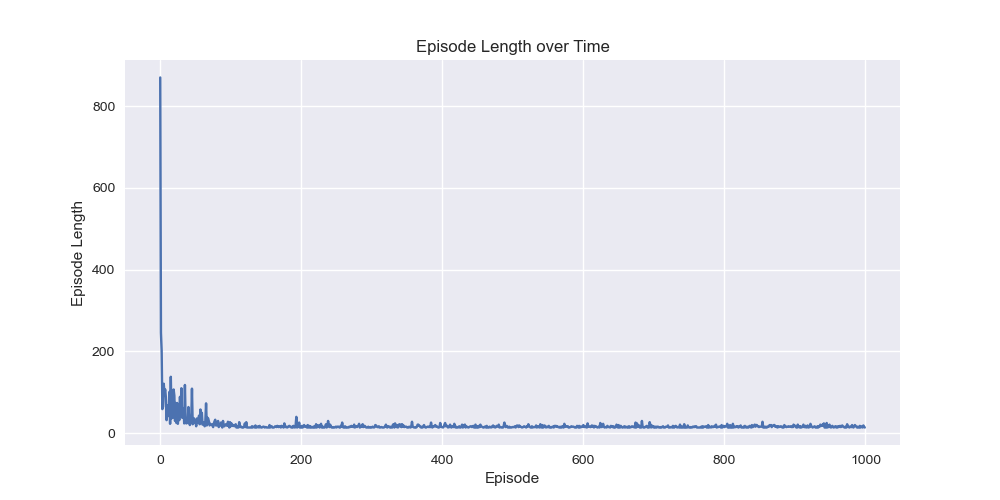
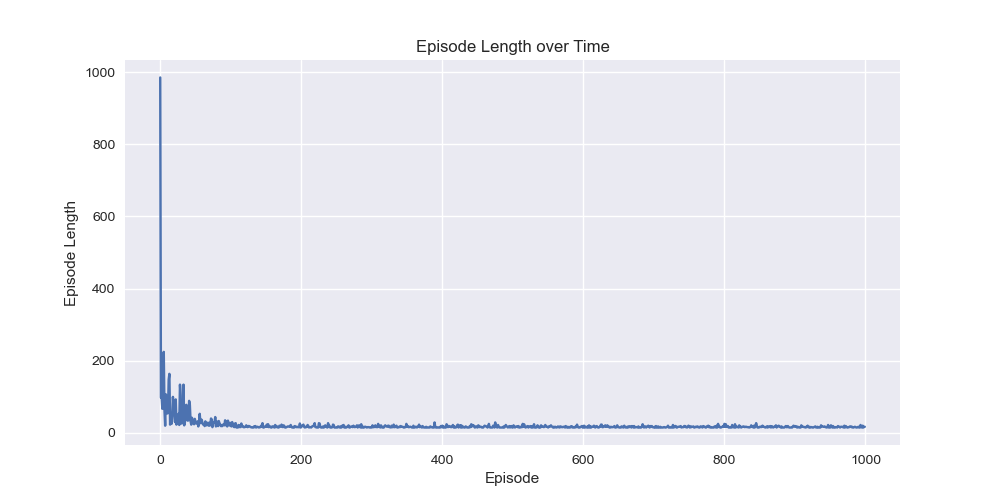
Rewrited as class. Added descriptions.

diff --git a/Q-Learning.py b/Q-Learning.py
@@ -4,6 +4,7 @@ import numpy as np
 from support import plotting
 from support.windy_gridworld import WindyGridworldEnv
 import matplotlib.style
+
 matplotlib.style.use("seaborn")
 
 """ Q-Learning is a basic form of Reinforcement Learning which uses Q-values (also called action values) to iteratively 
@@ -19,8 +20,8 @@ matplotlib.style.use("seaborn")
 3.  Temporal Difference or TD-Update:
         The Temporal Difference or TD-Update rule can be represented as follows :
         Q(S, A) <- Q(S, A) + alpha(R + gamma * Q(S', A') - Q(S, A)
-        
-        
+
+
 This update rule to estimate the value of Q is applied at every time step of the agents interaction with the 
 environment. The terms used are:
 
@@ -45,57 +46,61 @@ It goes as follows : ~With probability (1-epsilon) choose the action which has t
                 DOWN = 2
                 LEFT = 3"""
 
-env = WindyGridworldEnv()
-# env.seed(100)
-# print(env.render())
 
+class QLearning:
+    def __init__(self):
+        self.env = WindyGridworldEnv()
+        # self.env.render()
+        self.QFunction = defaultdict(lambda: np.zeros(self.env.action_space.n))
+        self.epsilon = 0.1
+        self.episodesAmount = 1000
+        self.stats = plotting.EpisodeStats(episode_lengths=np.zeros(self.episodesAmount),
+                                           episode_rewards=np.zeros(self.episodesAmount))
+        self.actionProbabilities = np.ones(self.env.action_space.n, dtype=float)
+        self.qLearning()
+        plotting.plot_episode_stats(self.stats)
 
-def createEpsilonGreedyPolicy(QFunction, epsilon, actionsAmount):
     # Creates an epsilon-greedy policy based on a given Q-function and epsilon
-    def policyFunction(state):
+    def createEpsilonGreedyPolicy(self):
         # state - represent current position in array (linear)
-        actionProbabilities = np.ones(actionsAmount, dtype=float) * epsilon / actionsAmount
-        # QFunction[state] - represents the next move direction probabilities for each direction
-        bestAction = np.argmax(QFunction[state])
-        # bestAction - direction to move,
-        actionProbabilities[bestAction] += (1.0 - epsilon)
-        return actionProbabilities
-    return policyFunction
+        def policyFunction(state):
+            # actionProbabilities - represents the next move direction probabilities for each direction
+            self.actionProbabilities = np.ones(self.env.action_space.n,
+                                               dtype=float) * self.epsilon / self.env.action_space.n
+            # QFunction[state] - represents the next move direction probabilities for each direction
+            bestAction = np.argmax(self.QFunction[state])
+            # bestAction - direction to move
+            self.actionProbabilities[bestAction] += (1.0 - self.epsilon)
+        return policyFunction
+
+    def qLearning(self, discountFactor=1.0, alpha=0.6):
+        policy = self.createEpsilonGreedyPolicy()
+
+        for episode in range(self.episodesAmount):
+            state = self.env.reset()
+            for i in itertools.count():
+                policy(state)
+                # action - random choice from actionProbabilities 1D array with probability p
+                action = np.random.choice(np.arange(len(self.actionProbabilities)), p=self.actionProbabilities)
+                # print(env.render())
+                # nextState - current position on the grid,
+                # reward - -1.0 perm,
+                # done - boolean, to show if agent reached destination (won),
+                # last(skipped) parameter is probability(1.0 by default)
+                nextState, reward, done, _ = self.env.step(action)
+
+                self.stats.episode_rewards[episode] += reward
+                self.stats.episode_lengths[episode] = i
+                bestNextAction = np.argmax(self.QFunction[nextState])
+                # temporalDifferenceTarget - reward(-1.0) + best action from the next state
+                temporalDifferenceTarget = reward + discountFactor * self.QFunction[nextState][bestNextAction]
+                # temporalDifferenceDelta - temporalDifferenceTarget - action from current state
+                temporalDifferenceDelta = temporalDifferenceTarget - self.QFunction[state][action]
+                self.QFunction[state][action] += alpha * temporalDifferenceDelta
+                if done:
+                    break
+                # print(env.render())
+                state = nextState
 
 
-def qLearning(environment, episodesAmount, discountFactor=1.0, alpha=0.6, epsilon=0.1):
-    QFunction = defaultdict(lambda: np.zeros(environment.action_space.n))
-    stats = plotting.EpisodeStats(episode_lengths=np.zeros(episodesAmount), episode_rewards=np.zeros(episodesAmount))
-    policy = createEpsilonGreedyPolicy(QFunction, epsilon, environment.action_space.n)
-
-    for episode in range(episodesAmount):
-        state = environment.reset()
-        for i in itertools.count():
-            actionProbabilities = policy(state)
-            print(actionProbabilities)
-    #         # actionProbabilities - represents the next move direction probabilities for each direction
-    #         action = np.random.choice(np.arange(len(actionProbabilities)), p=actionProbabilities)
-    #         # action - random choice from actionProbabilities 1D array
-    #         nextState, reward, done, _ = environment.step(action)
-    #         # print(env.render())
-    #         # nextState - current position on the grid,
-    #         # reward - ,
-    #         # done - boolean, to show if agent reached destination(won)
-    #         stats.episode_rewards[episode] += reward
-    #         stats.episode_lengths[episode] = i
-    #         bestNextAction = np.argmax(QFunction[nextState])
-    #         # print("rew", reward)
-    #         temporalDifferenceTarget = reward + discountFactor * QFunction[nextState][bestNextAction]
-    #         print(temporalDifferenceTarget)
-    #         temporalDifferenceDelta = temporalDifferenceTarget - QFunction[state][action]
-    #         QFunction[state][action] += alpha * temporalDifferenceDelta
-    #         if done:
-    #             break
-    #         # print(env.render())
-    #         state = nextState
-    #
-    # return QFunction, stats
-
-
-Q, stats = qLearning(env, 1000)
-plotting.plot_episode_stats(stats)
+QLearning()
